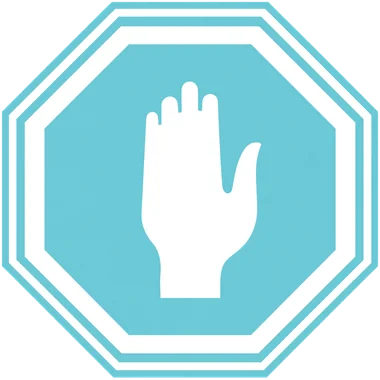
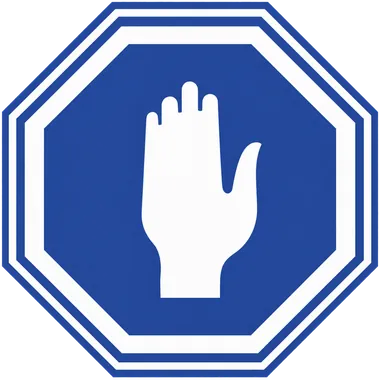
Adopt reference blue palette and matching course artwork

diff --git a/css/base.css b/css/base.css
@@ -19,19 +19,20 @@
 
 :root {
 	color-scheme: light;
-	--surface: #f0fbfe;
-	--surface-low: #eaf6f8;
-	--surface-container: #e5f0f2;
-	--surface-high: #dfeaec;
-	--surface-highest: #d9e5e7;
+	--surface: #f2f5fc;
+	--surface-low: #ecf0fa;
+	--surface-container: #e5ebf7;
+	--surface-high: #dee5f3;
+	--surface-highest: #d7e0f0;
 	--white: #ffffff;
 	--text: #131d1f;
 	--text-soft: #3e494a;
 	--text-muted: #687375;
-	--primary: #006970;
-	--primary-bright: #6dcdd6;
-	--primary-hover: #55bcc6;
-	--primary-wash: #ebf5f6;
+	--primary: #264796;
+	--primary-bright: #264796;
+	--on-primary: #ffffff;
+	--primary-hover: #1e3978;
+	--primary-wash: #edf1fa;
 	--secondary: #705d00;
 	--secondary-bright: #f6db78;
 	--secondary-hover: #e5ca61;
@@ -39,8 +40,8 @@
 	--tertiary: #9e3f41;
 	--tertiary-bright: #d96c6c;
 	--tertiary-wash: #fdf3f3;
-	--border: #dfe7e8;
-	--border-strong: #c5d1d3;
+	--border: #dfe5f0;
+	--border-strong: #c5cfe2;
 	--radius-control: 8px;
 	--radius-card: 16px;
 	--radius-large: 24px;

diff --git a/css/welcome.css b/css/welcome.css
@@ -114,8 +114,9 @@
 }
 
 .button-primary {
+	color: var(--on-primary);
 	background: var(--primary-bright);
-	box-shadow: 0 8px 24px rgb(0 105 112 / 0.13);
+	box-shadow: 0 8px 24px rgb(38 71 150 / 0.13);
 }
 
 .button-secondary {
@@ -299,8 +300,8 @@
 	background: var(--primary);
 	color: var(--white);
 	box-shadow:
-		0 24px 48px -12px rgb(0 86 92 / 0.18),
-		0 8px 20px -4px rgb(109 205 214 / 0.16);
+		0 24px 48px -12px rgb(30 57 120 / 0.18),
+		0 8px 20px -4px rgb(38 71 150 / 0.16);
 	text-align: center;
 	text-wrap: balance;
 }
@@ -328,14 +329,14 @@
 
 .topic-panel p {
 	margin: 0;
-	color: #e7f3f5;
+	color: #eaf0ff;
 	font-size: 17px;
 }
 
 .topic-panel .topic-note {
 	margin-block-start: 54px;
 	padding-block-start: 18px;
-	border-block-start: 1px solid rgb(231 243 245 / 0.2);
+	border-block-start: 1px solid rgb(234 240 255 / 0.2);
 	font-size: 14px;
 }
 

diff --git a/css/components.css b/css/components.css
@@ -3,8 +3,8 @@
 	inset-block-start: 0;
 	z-index: 10;
 	height: var(--header-height);
-	border-block-end: 1px solid rgb(189 201 202 / 0.65);
-	background: rgb(240 251 254 / 0.94);
+	border-block-end: 1px solid rgb(190 201 223 / 0.65);
+	background: rgb(242 245 252 / 0.94);
 	backdrop-filter: blur(14px);
 }
 
@@ -30,7 +30,7 @@
 	height: 42px;
 	flex: 0 0 42px;
 	border-radius: 12px;
-	box-shadow: inset 0 0 0 1px rgb(0 86 92 / 0.1);
+	box-shadow: inset 0 0 0 1px rgb(30 57 120 / 0.1);
 }
 
 .brand-copy {
@@ -83,7 +83,7 @@
 	padding-inline: 18px;
 	border-radius: var(--radius-control);
 	background: var(--primary-bright);
-	color: var(--text) !important;
+	color: var(--on-primary) !important;
 }
 
 .menu-toggle {

diff --git a/index.html b/index.html
@@ -3,7 +3,7 @@
 	<head>
 		<meta charset="utf-8" />
 		<meta name="viewport" content="width=device-width, initial-scale=1" />
-		<meta name="theme-color" content="#f0fbfe" />
+		<meta name="theme-color" content="#f2f5fc" />
 		<meta
 			name="description"
 			content="קורס דיגיטלי לנהיגה נכונה שמחבר בין חוקי הדרך למצבים אמיתיים בכביש."

diff --git a/DESIGN.md b/DESIGN.md
@@ -1,26 +1,26 @@
 ---
 name: Solar Serenity
 colors:
-  surface: '#f0fbfe'
-  surface-dim: '#d1dcde'
-  surface-bright: '#f0fbfe'
+  surface: '#f2f5fc'
+  surface-dim: '#cfd8ea'
+  surface-bright: '#f2f5fc'
   surface-container-lowest: '#ffffff'
-  surface-container-low: '#eaf6f8'
-  surface-container: '#e5f0f2'
-  surface-container-high: '#dfeaec'
-  surface-container-highest: '#d9e5e7'
+  surface-container-low: '#ecf0fa'
+  surface-container: '#e5ebf7'
+  surface-container-high: '#dee5f3'
+  surface-container-highest: '#d7e0f0'
   on-surface: '#131d1f'
   on-surface-variant: '#3e494a'
   inverse-surface: '#283234'
-  inverse-on-surface: '#e7f3f5'
+  inverse-on-surface: '#eaf0ff'
   outline: '#6e797a'
-  outline-variant: '#bdc9ca'
-  surface-tint: '#006970'
-  primary: '#006970'
+  outline-variant: '#bec9df'
+  surface-tint: '#264796'
+  primary: '#264796'
   on-primary: '#ffffff'
-  primary-container: '#6dcdd6'
-  on-primary-container: '#00565c'
-  inverse-primary: '#75d5de'
+  primary-container: '#dbe5ff'
+  on-primary-container: '#1e3978'
+  inverse-primary: '#b0c3ef'
   secondary: '#705d00'
   on-secondary: '#ffffff'
   secondary-container: '#fade7b'
@@ -33,10 +33,10 @@ colors:
   on-error: '#ffffff'
   error-container: '#ffdad6'
   on-error-container: '#93000a'
-  primary-fixed: '#92f2fb'
-  primary-fixed-dim: '#75d5de'
-  on-primary-fixed: '#002022'
-  on-primary-fixed-variant: '#004f54'
+  primary-fixed: '#dbe5ff'
+  primary-fixed-dim: '#b0c3ef'
+  on-primary-fixed: '#0d1b40'
+  on-primary-fixed-variant: '#203c7e'
   secondary-fixed: '#fde17e'
   secondary-fixed-dim: '#dfc565'
   on-secondary-fixed: '#221b00'
@@ -45,9 +45,9 @@ colors:
   tertiary-fixed-dim: '#ffb3b1'
   on-tertiary-fixed: '#410007'
   on-tertiary-fixed-variant: '#7f282b'
-  background: '#f0fbfe'
+  background: '#f2f5fc'
   on-background: '#131d1f'
-  surface-variant: '#d9e5e7'
+  surface-variant: '#d7e0f0'
 typography:
   display-lg:
     fontFamily: '"Varela Round", Arial, "Helvetica Neue", Helvetica, sans-serif'
@@ -143,7 +143,7 @@ spacing:
 
 ## Brand & Style
 
-This design system blends **Clean Minimalism** with **Warm Sunny Modernism**. It pairs pristine white foundations and soft tinted surfaces with an energized, sunlit palette—vibrant cyan-teal, radiant golden amber, and lively poppy coral. Replacing cooler secondary tones with luminous sunny colors shifts the emotional tone from quiet, introspective calm to an optimistic, warm, and inviting clarity.
+This design system blends **Clean Minimalism** with **Warm Sunny Modernism**. It pairs pristine white foundations and soft tinted surfaces with an energized, sunlit palette—vibrant royal blue, radiant golden amber, and lively poppy coral. Replacing cooler secondary tones with luminous sunny colors shifts the emotional tone from quiet, introspective calm to an optimistic, warm, and inviting clarity.
 
 ### Brand Personality & Tone
 - **Optimistic & Radiant:** Warm amber-yellow secondary tones infuse warmth and vitality, turning clinical cleanliness into an inviting, daylight-inspired ambiance.
@@ -151,14 +151,16 @@ This design system blends **Clean Minimalism** with **Warm Sunny Modernism**. It
 - **Effortless & Balanced:** Generous white breathing room, muted base surfaces, and balanced visual hierarchies prevent the enriched saturation from overwhelming the senses.
 
 ### Design Style
-The aesthetic marries Scandinavian white-space restraint with optimistic, tactile contemporary UI: pure `#FFFFFF` primary cards floating over soft, light-tinted backgrounds, complemented by warm golden amber accents and punchy cyan-teal interactive primaries.
+The aesthetic marries Scandinavian white-space restraint with optimistic, tactile contemporary UI: pure `#FFFFFF` primary cards floating over soft, light-tinted backgrounds, complemented by warm golden amber accents and punchy royal blue interactive primaries.
 
 ## Colors
 
-The palette transitions former deeper notes into luminous sunny tones, while elevating the chroma of the cyan, yellow/amber, and coral accents for heightened presence against luminous white and soft off-white canvas surfaces.
+The primary blue `#264796` is sampled from the user-supplied learner-sign reference. Primary actions and the course icon and stop-sign artwork use this blue; hover states use `#1e3978`, and filled primary controls use white text. All primary tints and blue-tinted surfaces derive from this hue. Amber and coral retain their secondary and semantic roles.
 
-### Primary Color (`#6DCDD6` - Vibrant Bright Cyan)
-The primary driver for high-priority actions, focus rings, and primary interactive components. Luminous and modern, it provides crisp contrast and clear visual weight against clean white canvases. Its tint surface wash is `#EBF5F6`.
+The palette transitions former deeper notes into luminous sunny tones, while elevating the chroma of the blue, yellow/amber, and coral accents for heightened presence against luminous white and soft off-white canvas surfaces.
+
+### Primary Color (`#264796` - Reference Blue)
+The primary driver for high-priority actions, focus rings, and primary interactive components. Luminous and modern, it provides crisp contrast and clear visual weight against clean white canvases. Its tint surface wash is `#edf1fa`.
 
 ### Secondary Color (`#F6DB78` - Warm Sunny Amber)
 This warm golden amber serves as the secondary anchor. It is used for secondary actions, highlight ribbons, verified indicators, and warm positive feedback. Its ambient companion surface is `#FFFDF5`.
@@ -168,8 +170,8 @@ A saturated, lively coral red that delivers punchy notifications, alerts, and cr
 
 ### Neutral & Surfaces
 - **Canvas Base (`#FFFFFF`):** High-luminescence ground layer for cards, inputs, and modal dialogs.
-- **Backdrop Surface (`#F4F8F8`):** Soft, clean, ultra-light cyan-gray for canvas grounds, sidebars, and grouped lists.
-- **Borders:** Low-noise framing via `#DFE7E8` (subtle) and `#C5D1D3` (structural/hover).
+- **Backdrop Surface (`#f5f7fb`):** Soft, clean, ultra-light blue-gray for canvas grounds, sidebars, and grouped lists.
+- **Borders:** Low-noise framing via `#dfe5f0` (subtle) and `#c5cfe2` (structural/hover).
 - **Text:** Deep charcoal `#141D1E` for headers and body copy; slate `#687375` for labels; and `#8C9799` for tertiary metadata.
 
 ## Typography
@@ -199,10 +201,10 @@ A fluid responsive grid paired with rhythmic spatial steps prioritizes spaciousn
 Visual hierarchy uses tonal surface layering combined with soft, warm-tinted ambient drop shadows rather than heavy borders.
 
 ### Elevation Levels
-- **Level 0 (Inset Ground):** Surface `#F4F8F8` with an inner 1px border `#DFE7E8`. Ideal for input wells, search panels, and code callouts.
-- **Level 1 (Default Containers):** Solid `#FFFFFF` card surface, 1px border `#DFE7E8`, and diffused shadow: `0 2px 8px -2px rgba(20, 29, 30, 0.04), 0 1px 3px 0 rgba(20, 29, 30, 0.02)`.
-- **Level 2 (Hovered Cards & Dropdowns):** Solid `#FFFFFF`, 1px border `#C5D1D3`, and elevated ambient shadow: `0 12px 28px -6px rgba(20, 29, 30, 0.07), 0 4px 10px -2px rgba(20, 29, 30, 0.03)`.
-- **Level 3 (Modals & Float Overlays):** Solid `#FFFFFF`, 1px border `#C5D1D3`, and broad light spread: `0 24px 48px -12px rgba(20, 29, 30, 0.09), 0 8px 20px -4px rgba(109, 205, 214, 0.06)`.
+- **Level 0 (Inset Ground):** Surface `#f5f7fb` with an inner 1px border `#dfe5f0`. Ideal for input wells, search panels, and code callouts.
+- **Level 1 (Default Containers):** Solid `#FFFFFF` card surface, 1px border `#dfe5f0`, and diffused shadow: `0 2px 8px -2px rgba(20, 29, 30, 0.04), 0 1px 3px 0 rgba(20, 29, 30, 0.02)`.
+- **Level 2 (Hovered Cards & Dropdowns):** Solid `#FFFFFF`, 1px border `#c5cfe2`, and elevated ambient shadow: `0 12px 28px -6px rgba(20, 29, 30, 0.07), 0 4px 10px -2px rgba(20, 29, 30, 0.03)`.
+- **Level 3 (Modals & Float Overlays):** Solid `#FFFFFF`, 1px border `#c5cfe2`, and broad light spread: `0 24px 48px -12px rgba(20, 29, 30, 0.09), 0 8px 20px -4px rgba(38, 71, 150, 0.06)`.
 
 ## Shapes
 
@@ -217,31 +219,31 @@ The design system maintains a balanced, rounded shape profile (`roundedness: 2`)
 ## Components
 
 ### Buttons
-- **Primary:** Solid vibrant cyan (`#6DCDD6`) background, `#141D1E` text, `0.5rem` border radius, padding 10px 20px. Hover: `#55BCC6`. Focus: 3px outer glow in `rgba(109, 205, 214, 0.25)`.
+- **Primary:** Solid royal blue (`#264796`) background, `#FFFFFF` text, `0.5rem` border radius, padding 10px 20px. Hover: `#1e3978`. Focus: 3px outer glow in `rgba(38, 71, 150, 0.25)`.
 - **Secondary (Sunny Accent):** Solid warm amber (`#F6DB78`) fill with `#141D1E` text for warm conversion triggers, or sunny surface fill (`#FFFDF5`) with `#806C14` text for low-friction actions. Hover: `#E5CA61` (on solid) or `#FEF9E6` (on wash).
-- **Tertiary / Ghost:** Borderless `#FFFFFF` surface, `#141D1E` text with subtle border `#DFE7E8`. Hover: `#F4F8F8` background.
+- **Tertiary / Ghost:** Borderless `#FFFFFF` surface, `#141D1E` text with subtle border `#dfe5f0`. Hover: `#f5f7fb` background.
 
 ### Cards
-- **Base Style:** Pure `#FFFFFF` surface with Level 1 elevation and 1px `#DFE7E8` border.
+- **Base Style:** Pure `#FFFFFF` surface with Level 1 elevation and 1px `#dfe5f0` border.
 - **Featured Card (Sunny Accent):** Pure `#FFFFFF` background, 2px top accent line or 1px border in `#F6DB78`, accompanied by a subtle `#FFFDF5` header banner.
 - **Interactive Cards:** Transition smoothly to Level 2 elevation on hover with a 200ms ease curve.
 
 ### Chips & Badges
 - **Sunny Amber (Active / Highlighting / Success):** Background `#FFFDF5`, text `#806C14`, border `1px solid rgba(246, 219, 120, 0.30)`.
-- **Vibrant Cyan (Informational):** Background `#EBF5F6`, text `#2A737A`, border `1px solid rgba(109, 205, 214, 0.25)`.
+- **Reference Blue (Informational):** Background `#edf1fa`, text `#264796`, border `1px solid rgba(38, 71, 150, 0.25)`.
 - **Poppy Coral (Alerts / Critical):** Background `#FDF3F3`, text `#B84646`, border `1px solid rgba(217, 108, 108, 0.25)`.
-- **Neutral:** Background `#F4F8F8`, text `#687375`, border `1px solid #DFE7E8`.
+- **Neutral:** Background `#f5f7fb`, text `#687375`, border `1px solid #dfe5f0`.
 - Formatted as full pills (`9999px`), `label-sm` font, padding 4px 10px.
 
 ### Input Fields & Selects
-- **Text Inputs:** `#FFFFFF` fill, 1px border `#DFE7E8`, `0.5rem` radius, padding 12px 16px, text `#141D1E`, placeholder `#8C9799`. Active focus creates a crisp `#6DCDD6` border accompanied by a 3px diffused outer halo (`rgba(109, 205, 214, 0.16)`).
+- **Text Inputs:** `#FFFFFF` fill, 1px border `#dfe5f0`, `0.5rem` radius, padding 12px 16px, text `#141D1E`, placeholder `#8C9799`. Active focus creates a crisp `#264796` border accompanied by a 3px diffused outer halo (`rgba(38, 71, 150, 0.16)`).
 
 ### Checkboxes, Radios & Switches
-- **Checkboxes & Radios:** Unchecked state features an empty `#FFFFFF` fill and `#C5D1D3` border. Checked state transitions to a vibrant cyan `#6DCDD6` fill with a crisp check/bullet.
-- **Toggle Switches:** Unchecked track in `#DFE7E8` with white thumb; checked track transitions to `#F6DB78` (warm sunny accent) to signal active status.
+- **Checkboxes & Radios:** Unchecked state features an empty `#FFFFFF` fill and `#c5cfe2` border. Checked state transitions to a royal blue `#264796` fill with a crisp check/bullet.
+- **Toggle Switches:** Unchecked track in `#dfe5f0` with white thumb; checked track transitions to `#F6DB78` (warm sunny accent) to signal active status.
 
 ### Lists & Navigation Rails
-- Row dividers utilize 1px `#DFE7E8`. Active navigation list items feature a `#FFFDF5` surface background with `#F6DB78` left accent edge (3px) and bold `#141D1E` label copy.
+- Row dividers utilize 1px `#dfe5f0`. Active navigation list items feature a `#FFFDF5` surface background with `#F6DB78` left accent edge (3px) and bold `#141D1E` label copy.
 
 ## Current Welcome Page
 
@@ -250,12 +252,12 @@ The approved composition is the hero, the instructor introduction with its stude
 ### Hero, Learning Steps, and Instructor Gallery
 
 - The instructor uses the supplied `oren.jpg` photo, with responsive WebP copies, rounded corners, and a cover crop positioned at 50% 75% to keep Oren visible in shallow frames. The two-line title identifies Oren Bachor as the driving instructor and course presenter. One Hebrew paragraph introduces his certification, more than eight years of experience, and explanations of real road situations. On desktop the photo and text sit at opposite outer edges, with each column capped at 540px. At 768px and below, use one column in both reading and visual order: centered title, photo, description. The introduction is constrained to 1280px and shares one small viewport below the sticky header with the road gallery beneath it. Allow natural growth on short screens or for enlarged text.
-- Use a full-width warm amber (`#F6DB78`) instructor section to distinguish it from the pale cyan hero. The top of the amber aligns with the bottom of the sticky header when navigating to `#instructor`.
-- The hero contains the concrete course promise, supporting copy, a primary “מנחה הקורס” button linking to `#instructor`, a secondary “צפו בנושאי הקורס” button linking to `#about`, and the supplied stop sign. It fills the initial viewport below the header. The secondary hero button has a white background with teal text and border, and a pale teal hover. Header and closing course-start actions intentionally use `#` until a real course destination is supplied.
+- Use a full-width warm amber (`#F6DB78`) instructor section to distinguish it from the pale blue hero. The top of the amber aligns with the bottom of the sticky header when navigating to `#instructor`.
+- The hero contains the concrete course promise, supporting copy, a primary “מנחה הקורס” button linking to `#instructor`, a secondary “צפו בנושאי הקורס” button linking to `#about`, and the supplied stop sign. It fills the initial viewport below the header. The secondary hero button has a white background with blue text and border, and a pale blue hover. Header and closing course-start actions intentionally use `#` until a real course destination is supplied.
 - Place the supplied road background below the compact instructor introduction. The introduction and road together fit below the sticky header on typical laptop and phone screens. Preserve gallery geometry and cadence; `hero-road` remains the gallery’s existing technical identifier.
-- Present the course as one white `#about` section with one heading and introduction, a pale teal strip containing the three learning steps, a short topic-selection prompt, the topic explorer, and the note that the course supports driving lessons. Keep all seven topics and their descriptions. Use three step columns on desktop and a vertical list on phones. The entire course shares one content width, spacing rhythm, and scroll-reveal root; omit a divider or second section title between the steps and explorer.
+- Present the course as one white `#about` section with one heading and introduction, a pale blue strip containing the three learning steps, a short topic-selection prompt, the topic explorer, and the note that the course supports driving lessons. Keep all seven topics and their descriptions. Use three step columns on desktop and a vertical list on phones. The entire course shares one content width, spacing rhythm, and scroll-reveal root; omit a divider or second section title between the steps and explorer.
 - The topbar has one instructor link and one “על הקורס” link. Both course navigation actions target `#about`. Use only the sticky header height as the global scroll offset, with no extra section scroll margins, so section backgrounds align immediately below the header. The mobile fallback header is in normal document flow and uses a zero scroll offset.
-- End with a centered pale cyan section headed “מוכנים להבין את הכביש טוב יותר?”, the supplied supporting sentence, and one primary “התחילו בשיעור הראשון” button.
+- End with a centered pale blue section headed “מוכנים להבין את הכביש טוב יותר?”, the supplied supporting sentence, and one primary “התחילו בשיעור הראשון” button.
 - The road spans the viewport, repeats horizontally, fills its height, and has square corners. Its height responds to the small viewport height, with a 180–264px desktop range and a 140–188px phone range.
 - Center the visible car silhouettes despite differing transparent margins in their source files. Size cars relative to the road height and retain a separate car-scale setting; phone layouts show neighboring cars partially clipped.
 - Place student photos on the car roofs with 8px rounded corners and a subtle 3px transparent edge fade. Keep the middle of each photo opaque, crop with `object-fit: cover`, and preserve the original image files.
@@ -267,7 +269,7 @@ The approved composition is the hero, the instructor introduction with its stude
 
 A small supplied red car follows the hero road from top to bottom in 15 seconds at a steady speed, turns with the bends, then waits off screen for five seconds before repeating. Keep it behind the sign and copy and noninteractive. Sample the road in rendered coordinates so the car retains its proportions on phones and follows the route after resizing. Reduced motion parks it near the start of the road; without JavaScript, omit the decorative car.
 
-The hero heading, paragraph, and buttons share a right edge on desktop and remain centered at 768px and below. Underline only “להבין” and “לקבל” in warm yellow (`#F6DB78`). A static, faint teal road curve follows the supplied drawn route: enter at the top center, sweep into a broad low loop to the left of the stop sign, climb diagonally behind the sign and copy into a high right-hand bend, then return to the bottom center. The curve fills the hero and stays behind all content. Keep it decorative, noninteractive, and lighter on mobile so it does not compete with the centered copy.
+The hero heading, paragraph, and buttons share a right edge on desktop and remain centered at 768px and below. Underline only “להבין” and “לקבל” in warm yellow (`#F6DB78`). A static, faint blue road curve follows the supplied drawn route: enter at the top center, sweep into a broad low loop to the left of the stop sign, climb diagonally behind the sign and copy into a high right-hand bend, then return to the bottom center. The curve fills the hero and stays behind all content. Keep it decorative, noninteractive, and lighter on mobile so it does not compete with the centered copy.
 
 The hero stop sign enters once at full opacity, pivoting around its bottom center. Inspect the production entrance by reloading the welcome page at desktop and phone widths. Use the `brake` keyframes with `--stop-sign-duration: 3s` and linear entry: hold off screen to the left at `translateX(calc(-50vw - 100%)) rotate(-20deg)` through 8%, then arrive at `translateX(10%) rotate(-20deg)` at 40%. Correct back to `translateX(6%) rotate(8deg)` at 46%, then `translateX(0) rotate(0)` at 48%, using `--ease-out` for both corrections. The corrections take 180ms and 60ms; the sign settles at 1.44s and stays upright. Reduced motion shows the static sign immediately.
 
@@ -281,12 +283,12 @@ The instructor introduction and unified course section reveal once as they enter
 
 Topic preview changes animate only the title and description container; the unchanged explanatory note stays still. A new pointer or touch selection fades and moves the outgoing content by 6px, replaces it after 110ms, and returns it over 180ms with `--ease-out`. Selecting the active topic does not restart feedback. Keyboard and assistive activation update immediately. Enabling reduced motion settles any pending update and removes movement and delay from later selections.
 
-The footer includes a right-to-left row of Instagram, TikTok, YouTube, and WhatsApp links. Use 24px Font Awesome brand icons in the primary teal, with visible Hebrew labels and at least 44px touch targets. Links wrap as needed on small screens and retain visible keyboard focus.
+The footer includes a right-to-left row of Instagram, TikTok, YouTube, and WhatsApp links. Use 24px Font Awesome brand icons in the primary blue, with visible Hebrew labels and at least 44px touch targets. Links wrap as needed on small screens and retain visible keyboard focus.
 
-On this welcome page, use a solid 3px primary teal (`#006970`) outline for keyboard focus instead of the general translucent focus glow described above, so it remains visible on white, cyan, and amber surfaces.
+On this welcome page, use a solid 3px primary blue (`#264796`) outline for keyboard focus instead of the general translucent focus glow described above, so it remains visible on white, blue, and amber surfaces.
 
 Without JavaScript or when the entry module is unavailable, the mobile header stays in document flow with visible navigation links, and section links align to the viewport top. Successful initialization enables the sticky header, its scroll offset, and the collapsible menu. Show all seven topic descriptions as static content before enhancement; the interactive preview uses those descriptions and replaces the static presentation after initialization.
 
 The current page uses a maximum 1280px content width, with 48px side margins above 1024px, 32px at 1024px and below, 20px at 768px and below, and 16px at 440px and below. The main layout and menu switch at 768px; the topic dropdown switches below 640px. These are the implemented page breakpoints rather than a mandatory column grid.
 
-The page uses `#F0FBFE` for its base surface and `#131D1F` for primary text. `css/base.css` holds runtime tokens, `css/components.css` holds navigation styles, `css/welcome.css` holds section layouts, and `css/responsive.css` holds motion, interaction states, responsive overrides, and accessibility preferences. Keep this stylesheet load order.
+The page uses `#f2f5fc` for its base surface and `#131D1F` for primary text. `css/base.css` holds runtime tokens, `css/components.css` holds navigation styles, `css/welcome.css` holds section layouts, and `css/responsive.css` holds motion, interaction states, responsive overrides, and accessibility preferences. Keep this stylesheet load order.

diff --git a/README.md b/README.md
@@ -2,7 +2,7 @@
 
 This is the first welcome-page concept for Oren Bachor's Hebrew driving course. The current direction is a **Learning journey** that introduces the course, explains how it connects theory to real road situations, and lets visitors preview the learning topics.
 
-The hero fills the available viewport below the navigation with the course promise, two actions, and the stop sign. The student-photo road carousel now sits below the compact instructor introduction; together they fit one viewport below the sticky header on typical laptop and phone screens. On mobile, the instructor content stacks in reading order: title, image, then one description. The cyan stop-sign illustration appears above the hero copy. Shorter screens and enlarged text can extend the hero naturally.
+The hero fills the available viewport below the navigation with the course promise, two actions, and the stop sign. The student-photo road carousel now sits below the compact instructor introduction; together they fit one viewport below the sticky header on typical laptop and phone screens. On mobile, the instructor content stacks in reading order: title, image, then one description. The blue stop-sign illustration appears above the hero copy. Shorter screens and enlarged text can extend the hero naturally.
 
 ## Current page flow
 
@@ -99,7 +99,7 @@ The HTML keeps original road-image dimensions and uses width descriptors in `src
 
 Student photos include intermediate 320px, 360px, and 400px candidates between the smallest desktop copy and the largest copy, capped at the original width. Candidates within 5% of the largest source are omitted in favor of that larger copy. These let phones select a closer fit without downloading the desktop 2x image. Width descriptors always reflect the generated file's actual width.
 
-WebP quality is 65 for intermediate and large student photos, 78 for the smallest student photos, 80 for cars, and 85 for the logo and stop sign. The red gallery car keeps RGB quality 80 with alpha quality 73 to reduce transparency data; the other cars and the small hero copies retain the default alpha quality. The smallest version of photo 11 uses quality 55 for its dense background. Both wheel sizes use quality 65 and alpha quality 60. Check faces, lettering, and transparent edges at their displayed sizes after changing these settings.
+WebP quality is 65 for intermediate and large student photos, 78 for the smallest student photos, 80 for cars and the stop sign, and 85 for the logo. The red gallery car keeps RGB quality 80 with alpha quality 73 to reduce transparency data; the other cars and the small hero copies retain the default alpha quality. The smallest version of photo 11 uses quality 55 for its dense background. Both wheel sizes use quality 65 and alpha quality 60. Check faces, lettering, and transparent edges at their displayed sizes after changing these settings.
 
 `tests/image-delivery-browser.test.mjs` checks actual browser source selection, image bytes, high-density coverage, and rendering without JavaScript. It covers desktop at 1x and 2x, phones at 1x, 1.75x, and 2x, and a 768px tablet at 2x. Density checks include the hero car and instructor photo, account for cover cropping, and allow 0.5% for fractional rendering geometry. Road-media download budgets scale with the generated photo count: desktop allows 115 KiB plus 9 KiB per photo, and mobile allows 120 KiB plus 12 KiB per photo. With 15 photos these are 250 KiB and 300 KiB. The instructor photo has separate budgets of 50 KiB at 1x, 90 KiB on high-density phones, 180 KiB on 2x desktop, and 300 KiB on the widest 2x tablet. Its selected source must stay within 20% of the required width. Both desktop and phone delivery are checked with JavaScript disabled. The high-density 412px phone check also limits oversized student-photo candidates. The 128px and 256px wheel downloads are capped at 6 KiB and 13 KiB; the smallest photo 11 is capped at 8 KiB.
 
